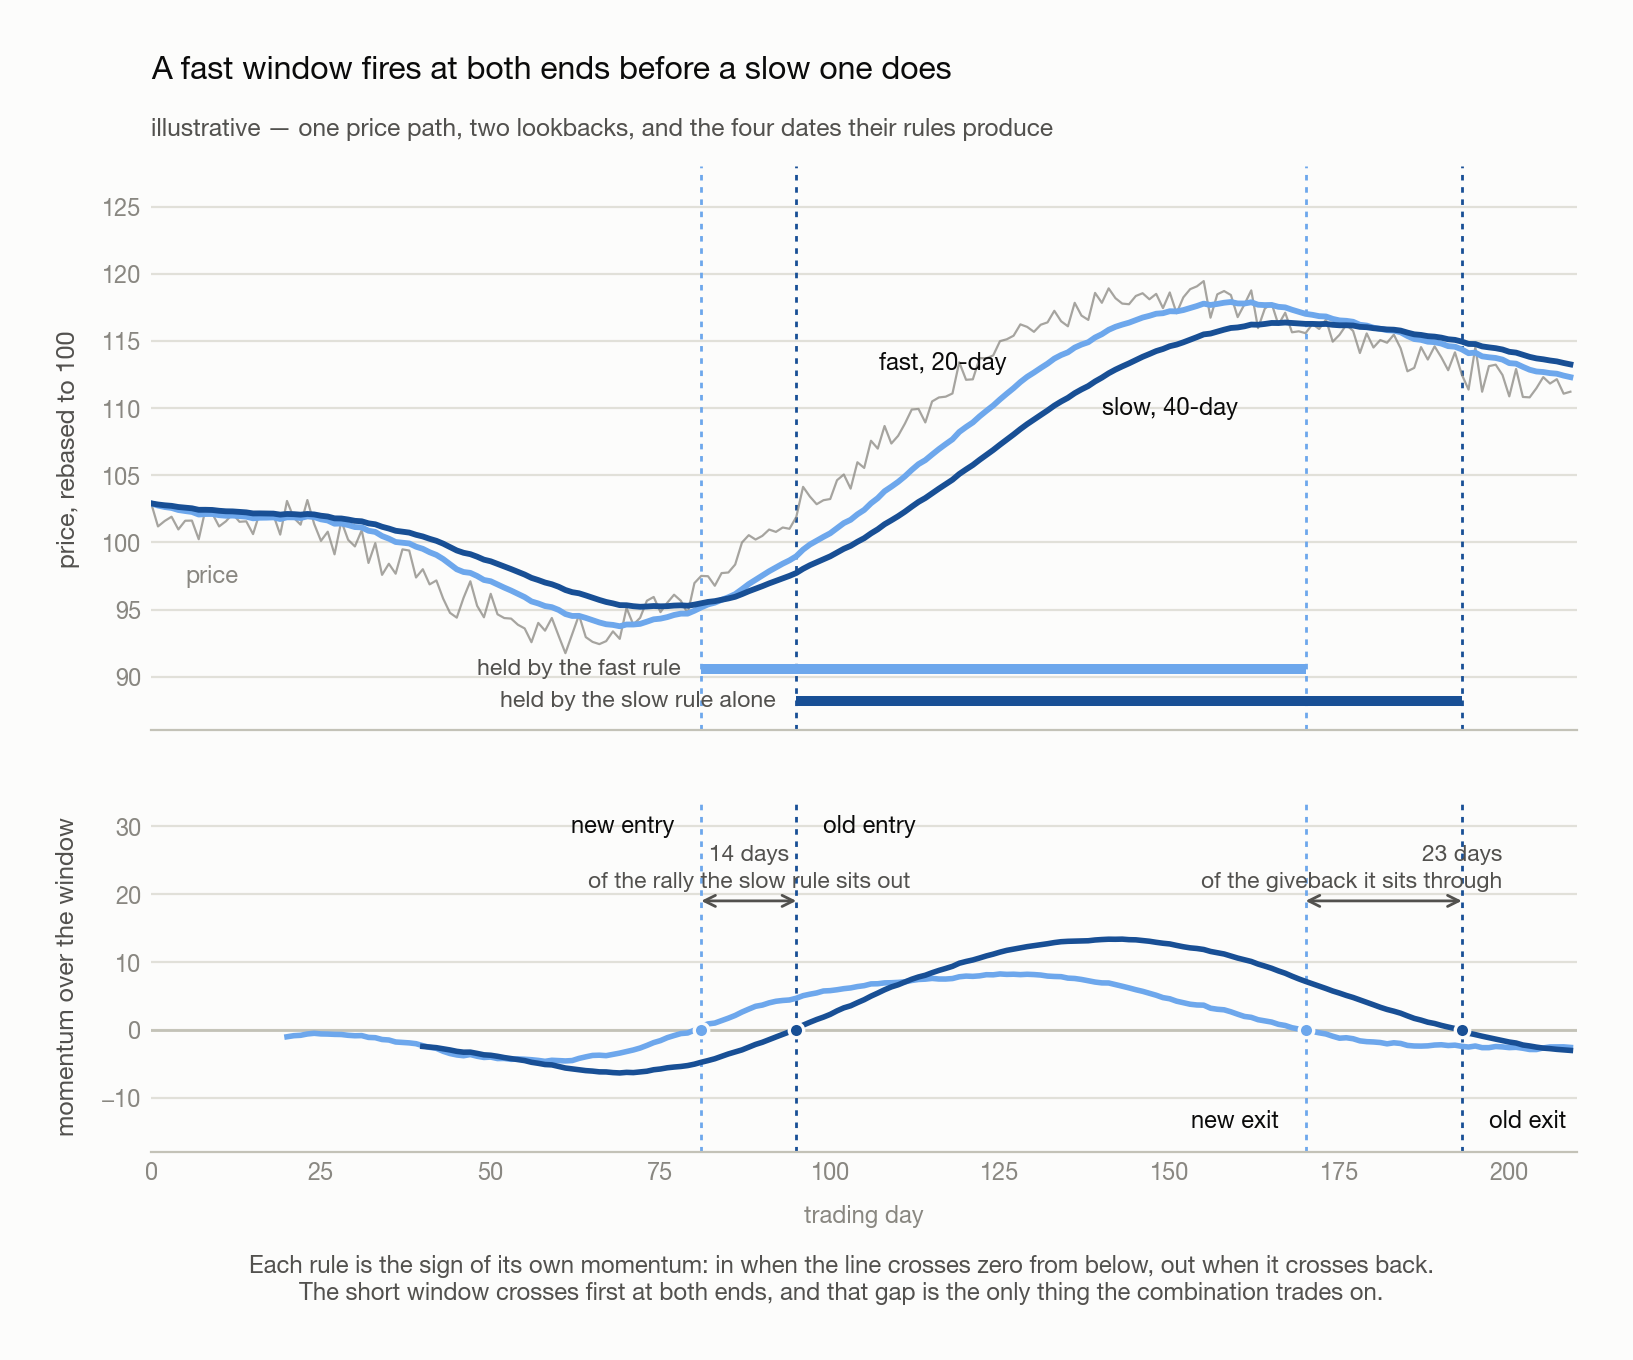
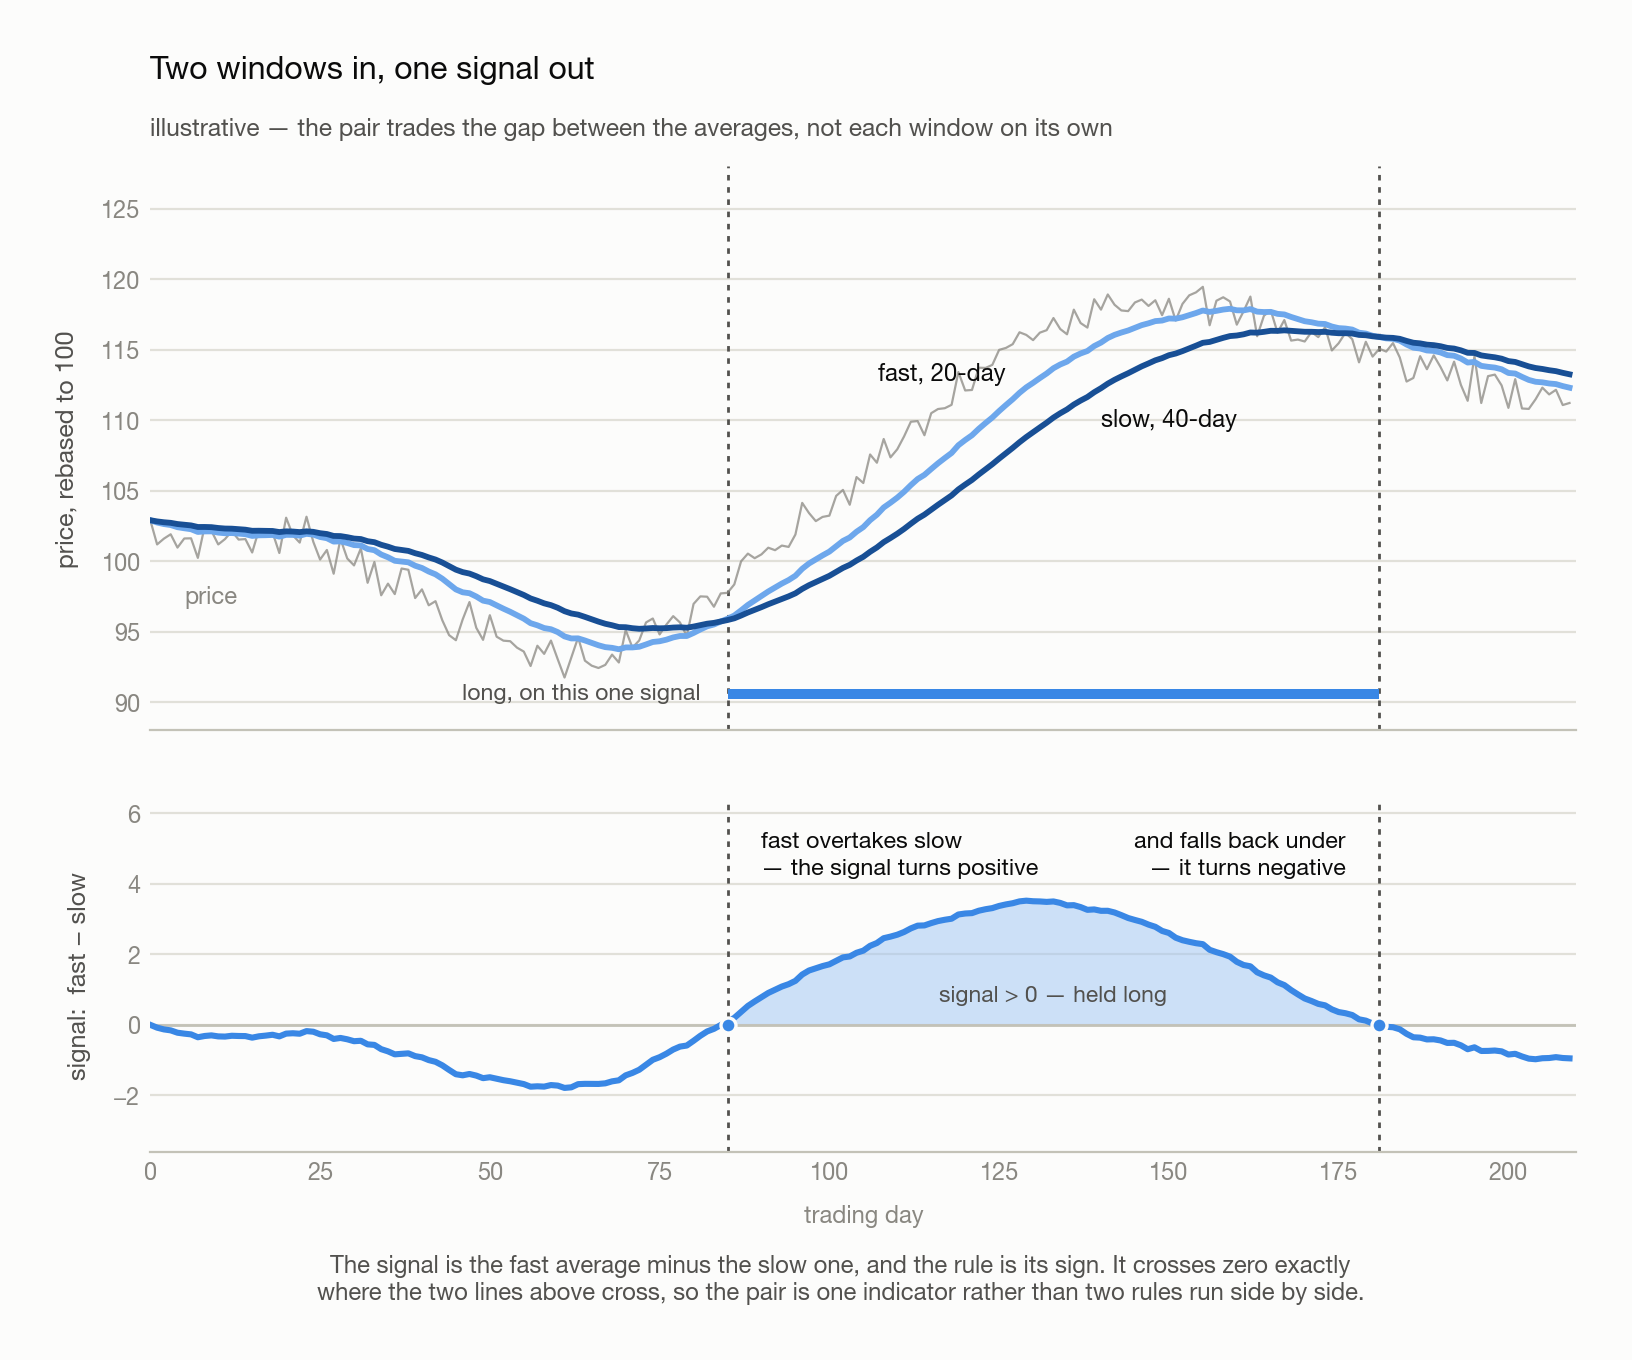
Plot the pair's signal, not each window's own momentum
The lower panel now draws the one series the pair actually produces —
the fast average minus the slow one — so its zero crossings land exactly
on the two points where the lines in the upper panel cross, and the
shaded region is the stretch the rule is long. Two windows in, one
number out.

This drops the four dates and the two gap arrows: a difference has one
crossing per side, not two. Section 2.1 is reworded to match, since it
described two rules each firing on its own zero, and 'what the early
signal means' becomes 'what the crossing means'. Section 3's lead-in no
longer has to introduce the difference, only name it, and 04's one-line
description of the pair on a slow grind follows suit.

diff --git a/docs/figures/make_03_shaping_the_lookback.py b/docs/figures/make_03_shaping_the_lookback.py
@@ -29,15 +29,13 @@ from _style import THEMES, save, style_axes, titles
 
 # ------------------- fig: a fast leg times the turns a slow one arrives late for
 def fast_times_the_slow(mode):
-    """03 s1 -- the same trend, entered and exited by two different lookbacks.
+    """03 s2 -- two windows in, one signal out.
 
     Schematic. One price path that falls, turns and rolls over, with a fast and
-    a slow moving average drawn over it. The lower panel is each of those two
-    lines' own momentum -- how far it has travelled over its own window -- so
-    the bottom panel is computed from the lines drawn in the top one rather
-    than from a separate series. Each rule fires where its own line crosses
-    zero; the short window crosses first at both ends, and that gap is the
-    reason to carry two.
+    a slow moving average drawn over it. The lower panel is the single series
+    the pair produces -- the fast average minus the slow one -- so its zero
+    crossings are exactly the two points where the lines above cross, and the
+    rule is the sign of that one number.
     """
     t = THEMES[mode]
     rng = np.random.RandomState(7)
@@ -61,40 +59,31 @@ def fast_times_the_slow(mode):
 
     fast_ma, slow_ma = ewma(price, N_F), ewma(price, N_S)
 
-    def momentum(v, N):                    # how far a line has moved over N days
-        m = np.full(n, np.nan)
-        m[N:] = v[N:] - v[:-N]
-        return m
+    # The pair produces one series, not two rules run side by side.
+    signal = fast_ma - slow_ma
 
-    # Taken on the two averages drawn above, each over its own window, so the
-    # lower panel is a statement about the lines in the upper one.
-    fast_m, slow_m = momentum(fast_ma, N_F), momentum(slow_ma, N_S)
-
-    def cross(m, lo, hi, up):
+    def cross(lo, hi, up):
         for i in range(lo + 1, hi):
-            if np.isnan(m[i - 1]):
-                continue
-            if (m[i] > 0 >= m[i - 1]) if up else (m[i] < 0 <= m[i - 1]):
+            if (signal[i] > 0 >= signal[i - 1]) if up else (signal[i] < 0 <= signal[i - 1]):
                 return i
         return None
 
     peak = int(np.nanargmax(level))
-    f_in, s_in = cross(fast_m, N_S, peak, True), cross(slow_m, N_S, peak, True)
-    f_out, s_out = cross(fast_m, peak, n, False), cross(slow_m, peak, n, False)
+    enter, leave = cross(N_S, peak, True), cross(peak, n, False)
+    day = np.arange(n)
 
     fig, (ax, bx) = plt.subplots(
         2, 1, figsize=(9.2, 6.4), sharex=True,
         gridspec_kw=dict(height_ratios=[1.6, 1.0], hspace=0.15))
     fig.patch.set_facecolor(t["surface"])
 
-    # ---- top: the price, and the two windows drawn over it
+    # ---- top: the price, and the two averages whose gap is the signal
     style_axes(ax, t, ylabel="price, rebased to 100")
-    lo, hi = 86, 128
+    lo, hi = 88, 128
     ax.set_ylim(lo, hi)
     ax.set_xlim(0, n)
-    for i, colour in ((f_in, t["ramp"][2]), (s_in, t["ramp"][5]),
-                      (f_out, t["ramp"][2]), (s_out, t["ramp"][5])):
-        ax.plot([i, i], [lo, hi], color=colour, linewidth=1.0,
+    for i in (enter, leave):
+        ax.plot([i, i], [lo, hi], color=t["ink_secondary"], linewidth=1.0,
                 linestyle=(0, (2, 2.4)), zorder=1)
     ax.plot(price, color=t["muted"], linewidth=0.8, alpha=0.75, zorder=2)
     ax.plot(slow_ma, color=t["ramp"][5], linewidth=2.1, zorder=4)
@@ -106,55 +95,44 @@ def fast_times_the_slow(mode):
             fontsize=8.6, fontweight="600", ha="left", va="top")
     ax.text(5, 97.0, "price", color=t["muted"], fontsize=8.6, ha="left")
 
-    for y, (p0, p1), colour, label in (
-            (90.6, (f_in, f_out), t["ramp"][2], "held by the fast rule"),
-            (88.2, (s_in, s_out), t["ramp"][5], "held by the slow rule alone")):
-        ax.plot([p0, p1], [y, y], color=colour, linewidth=3.6,
-                solid_capstyle="butt", zorder=5)
-        ax.text(p0 - 3, y, label, color=t["ink_secondary"], fontsize=8.3,
-                fontweight="600", ha="right", va="center")
+    ax.plot([enter, leave], [90.6, 90.6], color=t["ramp"][3], linewidth=3.6,
+            solid_capstyle="butt", zorder=5)
+    ax.text(enter - 4, 90.6, "long, on this one signal", color=t["ink_secondary"],
+            fontsize=8.3, fontweight="600", ha="right", va="center")
 
-    titles(ax, t, "A fast window fires at both ends before a slow one does",
-           "illustrative — one price path, two lookbacks, and the four dates their rules produce")
+    titles(ax, t, "Two windows in, one signal out",
+           "illustrative — the pair trades the gap between the averages, not each window on its own")
 
-    # ---- bottom: the momentum each window produces, and where it crosses zero
-    style_axes(bx, t, ylabel="momentum over the window", xlabel="trading day")
-    ylo, yhi = -18, 34
+    # ---- bottom: that gap, as a single series crossing zero
+    style_axes(bx, t, ylabel="signal:  fast − slow", xlabel="trading day")
+    ylo, yhi = -3.6, 6.4
     bx.set_ylim(ylo, yhi)
     bx.set_xlim(0, n)
-    for i, colour in ((f_in, t["ramp"][2]), (s_in, t["ramp"][5]),
-                      (f_out, t["ramp"][2]), (s_out, t["ramp"][5])):
-        bx.plot([i, i], [ylo, yhi], color=colour, linewidth=1.0,
+    for i in (enter, leave):
+        bx.plot([i, i], [ylo, yhi], color=t["ink_secondary"], linewidth=1.0,
                 linestyle=(0, (2, 2.4)), zorder=1)
-    bx.axhline(0, color=t["baseline"], linewidth=1.0, zorder=2)
-    bx.plot(slow_m, color=t["ramp"][5], linewidth=2.0, zorder=4)
-    bx.plot(fast_m, color=t["ramp"][2], linewidth=2.0, zorder=3)
+    bx.fill_between(day, 0, signal, where=signal > 0, interpolate=True,
+                    color=t["ramp"][1], alpha=0.5, linewidth=0, zorder=2)
+    bx.axhline(0, color=t["baseline"], linewidth=1.0, zorder=3)
+    bx.plot(signal, color=t["ramp"][3], linewidth=2.2, zorder=4)
 
-    for i, colour, y, ha, label in (
-            (f_in,  t["ramp"][2], 30.0, "right", "new entry"),
-            (s_in,  t["ramp"][5], 30.0, "left",  "old entry"),
-            (f_out, t["ramp"][2], -13.5, "right", "new exit"),
-            (s_out, t["ramp"][5], -13.5, "left",  "old exit")):
-        bx.plot([i], [0], marker="o", markersize=5.2, color=colour,
+    for i in (enter, leave):
+        bx.plot([i], [0], marker="o", markersize=5.4, color=t["ramp"][3],
                 markeredgecolor=t["surface"], markeredgewidth=1.2, zorder=6)
-        bx.text(i + (-4 if ha == "right" else 4), y, label, color=t["ink"],
-                fontsize=8.5, fontweight="600", ha=ha, va="center")
 
-    for (p0, p1), note in (((f_in, s_in), "of the rally the slow rule sits out"),
-                           ((f_out, s_out), "of the giveback it sits through")):
-        bx.annotate("", xy=(p1, 19.0), xytext=(p0, 19.0),
-                    arrowprops=dict(arrowstyle="<->", color=t["ink_secondary"],
-                                    linewidth=1.0, shrinkA=0, shrinkB=0))
-        mid = (p0 + p1) / 2
-        ha = "center" if mid < n * 0.75 else "right"
-        bx.text(mid if ha == "center" else p1 + 6, 20.4, f"{p1 - p0} days\n{note}",
-                color=t["ink_secondary"], fontsize=8.2, ha=ha, va="bottom",
-                linespacing=1.45)
+    bx.text(enter + 5, 5.5, "fast overtakes slow\n— the signal turns positive",
+            color=t["ink"], fontsize=8.4, fontweight="600", ha="left", va="top",
+            linespacing=1.45)
+    bx.text(leave - 5, 5.5, "and falls back under\n— it turns negative",
+            color=t["ink"], fontsize=8.4, fontweight="600", ha="right", va="top",
+            linespacing=1.45)
+    bx.text((enter + leave) / 2, 0.55, "signal > 0 — held long",
+            color=t["ink_secondary"], fontsize=8.2, ha="center", va="bottom")
 
     fig.text(0.5, -0.005,
-             "Each rule is the sign of its own momentum: in when the line crosses zero from below, "
-             "out when it crosses back.\nThe short window crosses first at both ends, and that gap "
-             "is the only thing the combination trades on.",
+             "The signal is the fast average minus the slow one, and the rule is its sign. It crosses "
+             "zero exactly\nwhere the two lines above cross, so the pair is one indicator rather than "
+             "two rules run side by side.",
              ha="center", color=t["ink_secondary"], fontsize=8.6)
     save(fig, t, f"fast-times-slow-{mode}.png")
 

diff --git a/docs/03-shaping-the-lookback.md b/docs/03-shaping-the-lookback.md
@@ -99,24 +99,24 @@ better single window, but by refusing to settle for just one.
 
 One lookback forces a choice between stable and timely. A long window rides a trend without being
 shaken out of it but arrives late at both ends; a short one turns on time, and turns on noise too.
-Rather than choose, carry both and let the **fast window time the turns of the slow one**.
+Rather than choose, carry both and trade **the gap between them**.
 
-Each rule is still the sign of its own momentum, so each fires when its own line crosses zero. Draw
-the two over the same price path and the short window crosses first at both ends — that gap, and
-nothing else, is what the combination trades on.
+That gap is a single series — the fast average minus the slow one — and the rule is its sign: long
+while the fast average sits above the slow one, out when it drops back under. Two windows go in and
+one number comes out, which is what makes the pair an indicator rather than two rules run side by
+side.
 
 <picture>
   <source media="(prefers-color-scheme: dark)" srcset="figures/fast-times-slow-dark.png">
-  <img alt="Two stacked panels sharing a trading-day axis. The upper panel plots price rebased to 100 over one path that falls, turns and rolls over, with a 20-day and a 40-day moving average drawn over it, and two horizontal bars underneath showing how long each rule holds. The lower panel plots each of those two averages' own momentum — how far it has moved over its own window — against zero, so it describes the same two lines drawn above: the 20-day line crosses zero upward 14 days before the 40-day line does, and crosses back down 23 days before it, so the fast rule enters and exits earlier at both ends" src="figures/fast-times-slow-light.png">
+  <img alt="Two stacked panels sharing a trading-day axis. The upper panel plots price rebased to 100 over one path that falls, turns and rolls over, with a 20-day and a 40-day moving average drawn over it; the fast average crosses above the slow one on day 85 and drops back under it on day 181, and a bar between those two dates marks the stretch the rule is long. The lower panel plots the single series the pair produces — the fast average minus the slow one — against zero, shaded where it is positive. It is negative at both ends and positive in between, and its two zero crossings fall exactly on the two dates the averages cross in the panel above" src="figures/fast-times-slow-light.png">
 </picture>
 
-**What the early signal means.** A fast momentum turning up while the slow one is still negative is
-not only an arithmetic consequence of the shorter window. It is the first evidence that flow has
-changed direction — that whoever was selling has stopped, or something large has started buying —
-while the move is still too small to register over a quarter. The same reading runs the other way
-and matters more there: a fast leg rolling over while the slow one is still positive is what a large
-holder beginning to leave looks like from outside. Waiting for the slow window to agree means
-selling to them on the way out.
+**What the crossing means.** The fast average overtaking the slow one is not only an arithmetic
+consequence of the shorter window. It is the first evidence that flow has changed direction — that
+whoever was selling has stopped, or something large has started buying — while the move is still too
+small to register over a quarter. The same reading runs the other way and matters more there: the
+fast average rolling back under the slow one is what a large holder beginning to leave looks like
+from outside. Waiting for the slow window to turn on its own means selling to them on the way out.
 
 ### 2.2 Finding the pairing
 
@@ -157,8 +157,8 @@ on one hard enough and someone takes the other side and presses it back.
 
 ## 3. MACD, stated precisely
 
-§ 1 gave a window a decay; § 2 gave the signal two windows instead of one. Put a fast EWMA against a
-slow one and the result already has a name.
+§ 1 gave a window a decay; § 2 took the difference of a fast average and a slow one and read its
+sign. That difference already has a name, and two further series conventionally travel with it.
 
 ### 3.1 The three series
 
@@ -321,7 +321,7 @@ what your signal is averaging.
 You should be able to explain:
 
 - [ ] What a half-life is, and why an EWMA never fully forgets
-- [ ] Why a fast leg times the turns of a slow one, and why the ratio is grid-searched rather than assumed
+- [ ] Why a fast/slow pair is one signal — the fast average minus the slow one — and why the ratio is grid-searched rather than assumed
 - [ ] Why MACD is momentum with a hump-shaped kernel rather than a separate indicator
 - [ ] Why the smoothing window must be shorter than the fast signal's own period
 

diff --git a/docs/04-volatility-regimes.md b/docs/04-volatility-regimes.md
@@ -28,7 +28,7 @@ The reason to care is that momentum does not work equally in both of them.
 
 | Tape | What the price does | What a fast/slow pair does |
 | --- | --- | --- |
-| **Slow grind** | a trend that builds over weeks, in either direction | works: the fast leg turns first, the slow leg confirms, and the position is on for the middle of the move ([03 § 2.1](03-shaping-the-lookback.md)) |
+| **Slow grind** | a trend that builds over weeks, in either direction | works: the fast average pulls clear of the slow one and stays there, so the signal holds its sign and the position is on for the middle of the move ([03 § 2.1](03-shaping-the-lookback.md)) |
 | **Calm, then a burst** | flat for months, then a violent stretch of days, then flat again | fails: the fast leg is too slow to catch the burst and too fast not to be whipsawed by it ([03 § 4](03-shaping-the-lookback.md)) |
 
 **Claim.** The edge a trend signal carries is a property of the regime, not of the signal alone.
